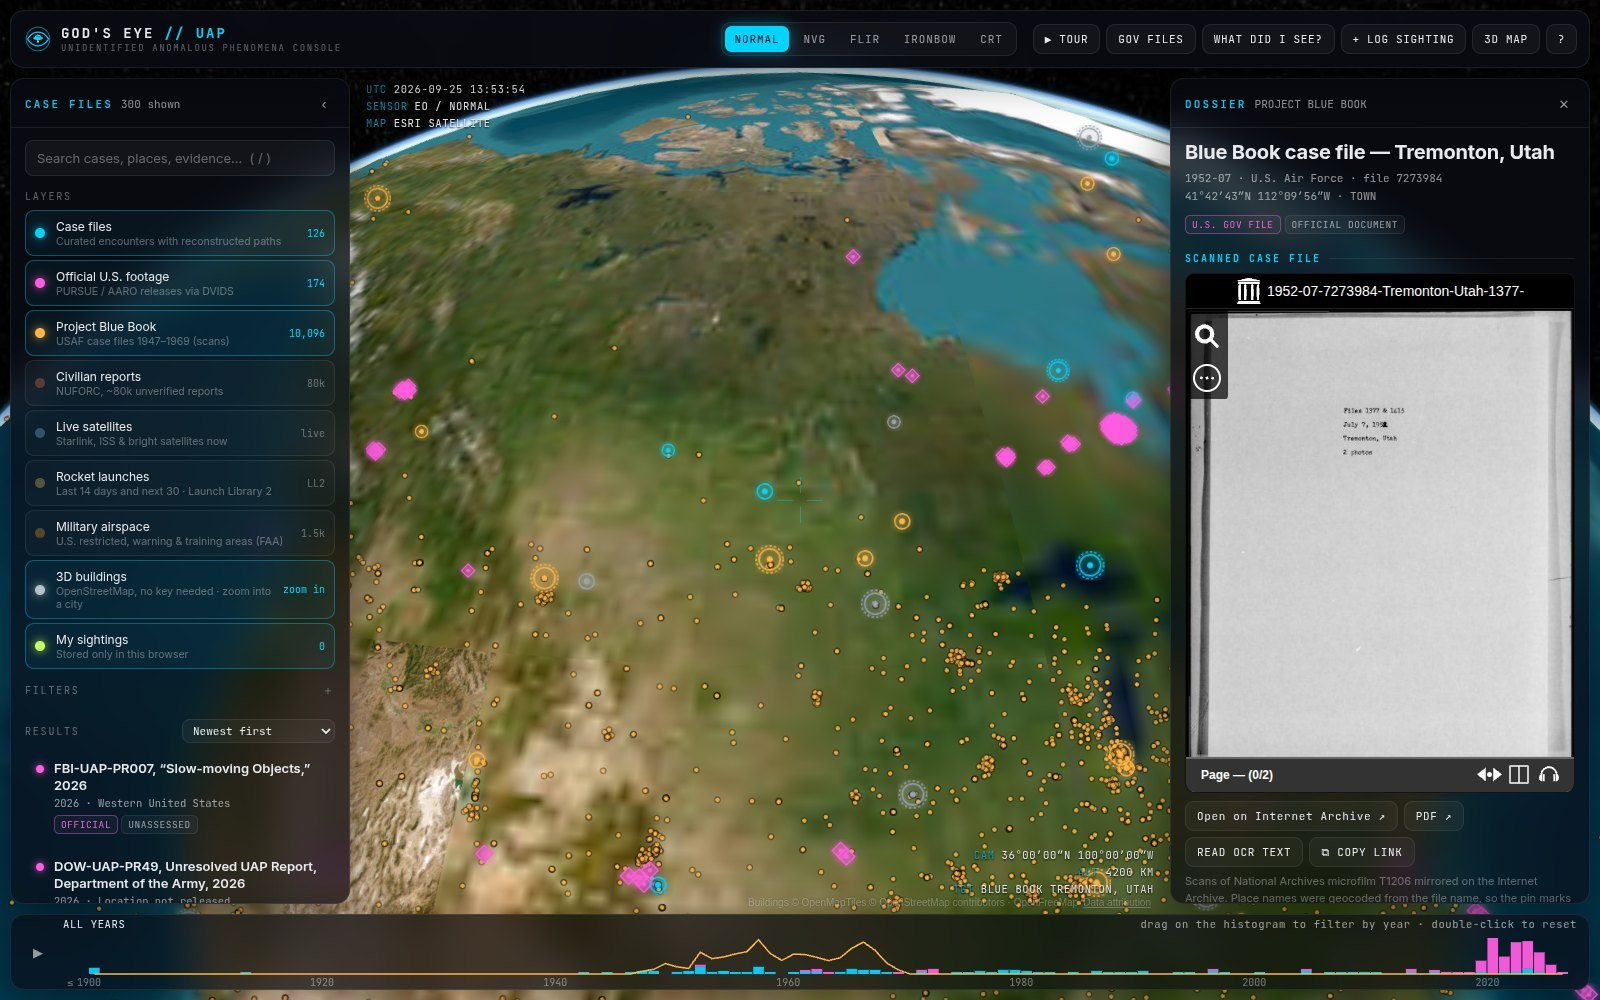
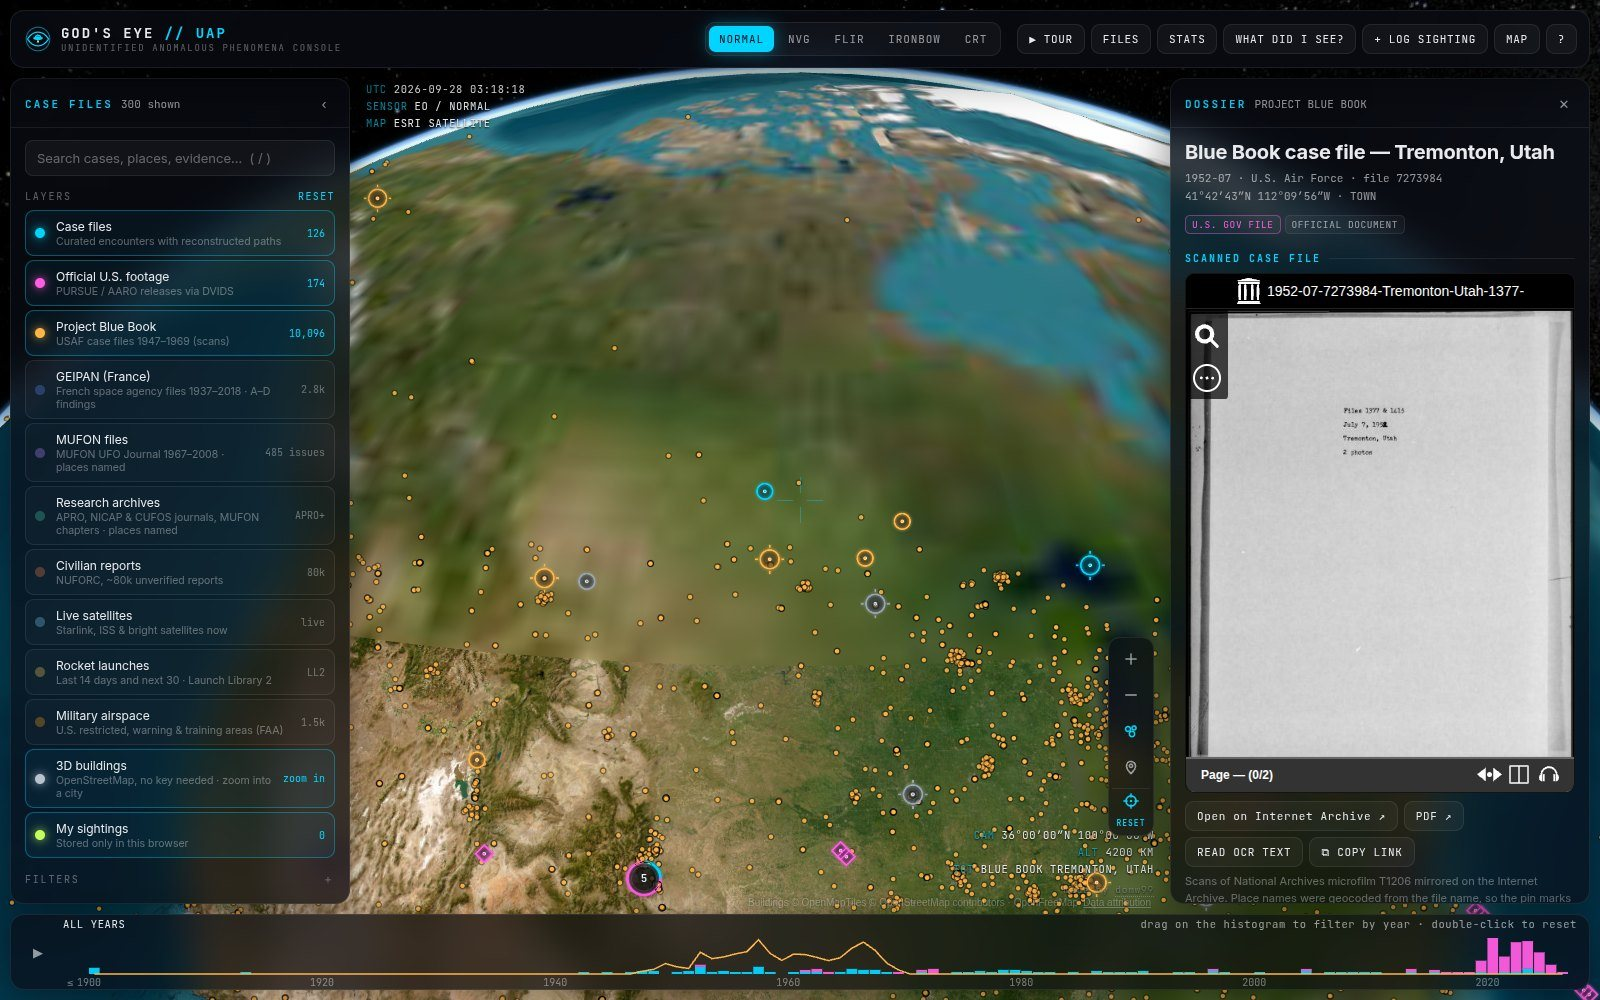
Refresh the README pictures with the current app
Every README screenshot taken before the 1.1 changes is re-captured from
the current build: the new header (FILES, STATS, MAP, STAR), grouped
markers and NASA's star sky. The flight path, witness view, airspace,
launches, official record, Blue Book, GEIPAN, MUFON, journals, search,
statistics, story mode, comparison, the checks collage and the phone
screens are all new; the full-width ones are now twice as sharp.

Also exposes the map style, lighting, clean view and "that day from
orbit" to the capture scripts, and lets build-cards.mjs override the
lighting for a card.

Claude-Session: https://claude.ai/code/session_01YaFXtAqDSc1NSu64ZMphwN

diff --git a/src/main.js b/src/main.js
@@ -2049,5 +2049,7 @@ if ('serviceWorker' in navigator && import.meta.env.PROD) {
 window.__uap = { viewer, showNearby, setGrouping, select, selectBlueBook, selectGeipan, selectMufonPage, selectJournalPage, resetView, zoomView, setMode, setLayer, state, startTour, trackLayer, showLaunchPad: (i) => renderLaunchPad(launchLayer.info(i)),
   // Used by scripts/build-cards.mjs to render the case pages' preview images.
   zoomer: () => zoomer,
+  // Used by the demo and README capture scripts.
+  basemap, setLighting, setOrbitDay, setCleanView,
   Cesium,
   cardFor: async (key, url) => (await makeCard(itemByKey(key), url)).toDataURL('image/jpeg', 0.84) };

diff --git a/README.md b/README.md
@@ -122,7 +122,7 @@ There are five sensor looks, rendered as real-time post-processing shaders (keys
 <table>
 <tr>
 <td width="50%"><img src="docs/media/airspace.jpg" alt="FAA restricted and warning areas over the south-western U.S. as 3D volumes with case markers" /></td>
-<td width="50%"><img src="docs/media/launches.jpg" alt="Rocket launch layer with Cape Canaveral's recent and upcoming launches" /></td>
+<td width="50%"><img src="docs/media/launches.jpg" alt="Rocket launch sites around the Americas, with the Guiana Space Centre's recent and upcoming launches open in the dossier" /></td>
 </tr>
 <tr>
 <td><sub><b>Military airspace</b>: all 1,542 U.S. restricted, warning, MOA, alert and prohibited areas from the FAA, drawn as 3D volumes. Nimitz sits in warning area W-291.</sub></td>
@@ -212,7 +212,7 @@ MUFON and The Black Vault released the Mutual UFO Network's journal free as "The
 
 <img src="docs/media/phones.jpg" alt="The app on a phone: globe and layers, a case dossier, and the sky chart" width="100%" />
 
-Add it to your home screen from the browser menu. It reopens quickly and works offline for what you have already looked at. The globe only draws when something changes and matches its sharpness to the device, so it stays smooth and easy on the battery.
+Add it to your home screen from the browser menu. It reopens quickly and works offline for what you have already looked at. The globe only draws when something changes and matches its sharpness to the device, so it stays smooth and easy on the battery. Phones get a lighter copy of the star sky. If your system is set to reduce motion, the camera cuts instead of flying.
 
 **Also included:**
 - Reference photos, films and audio for each case.
